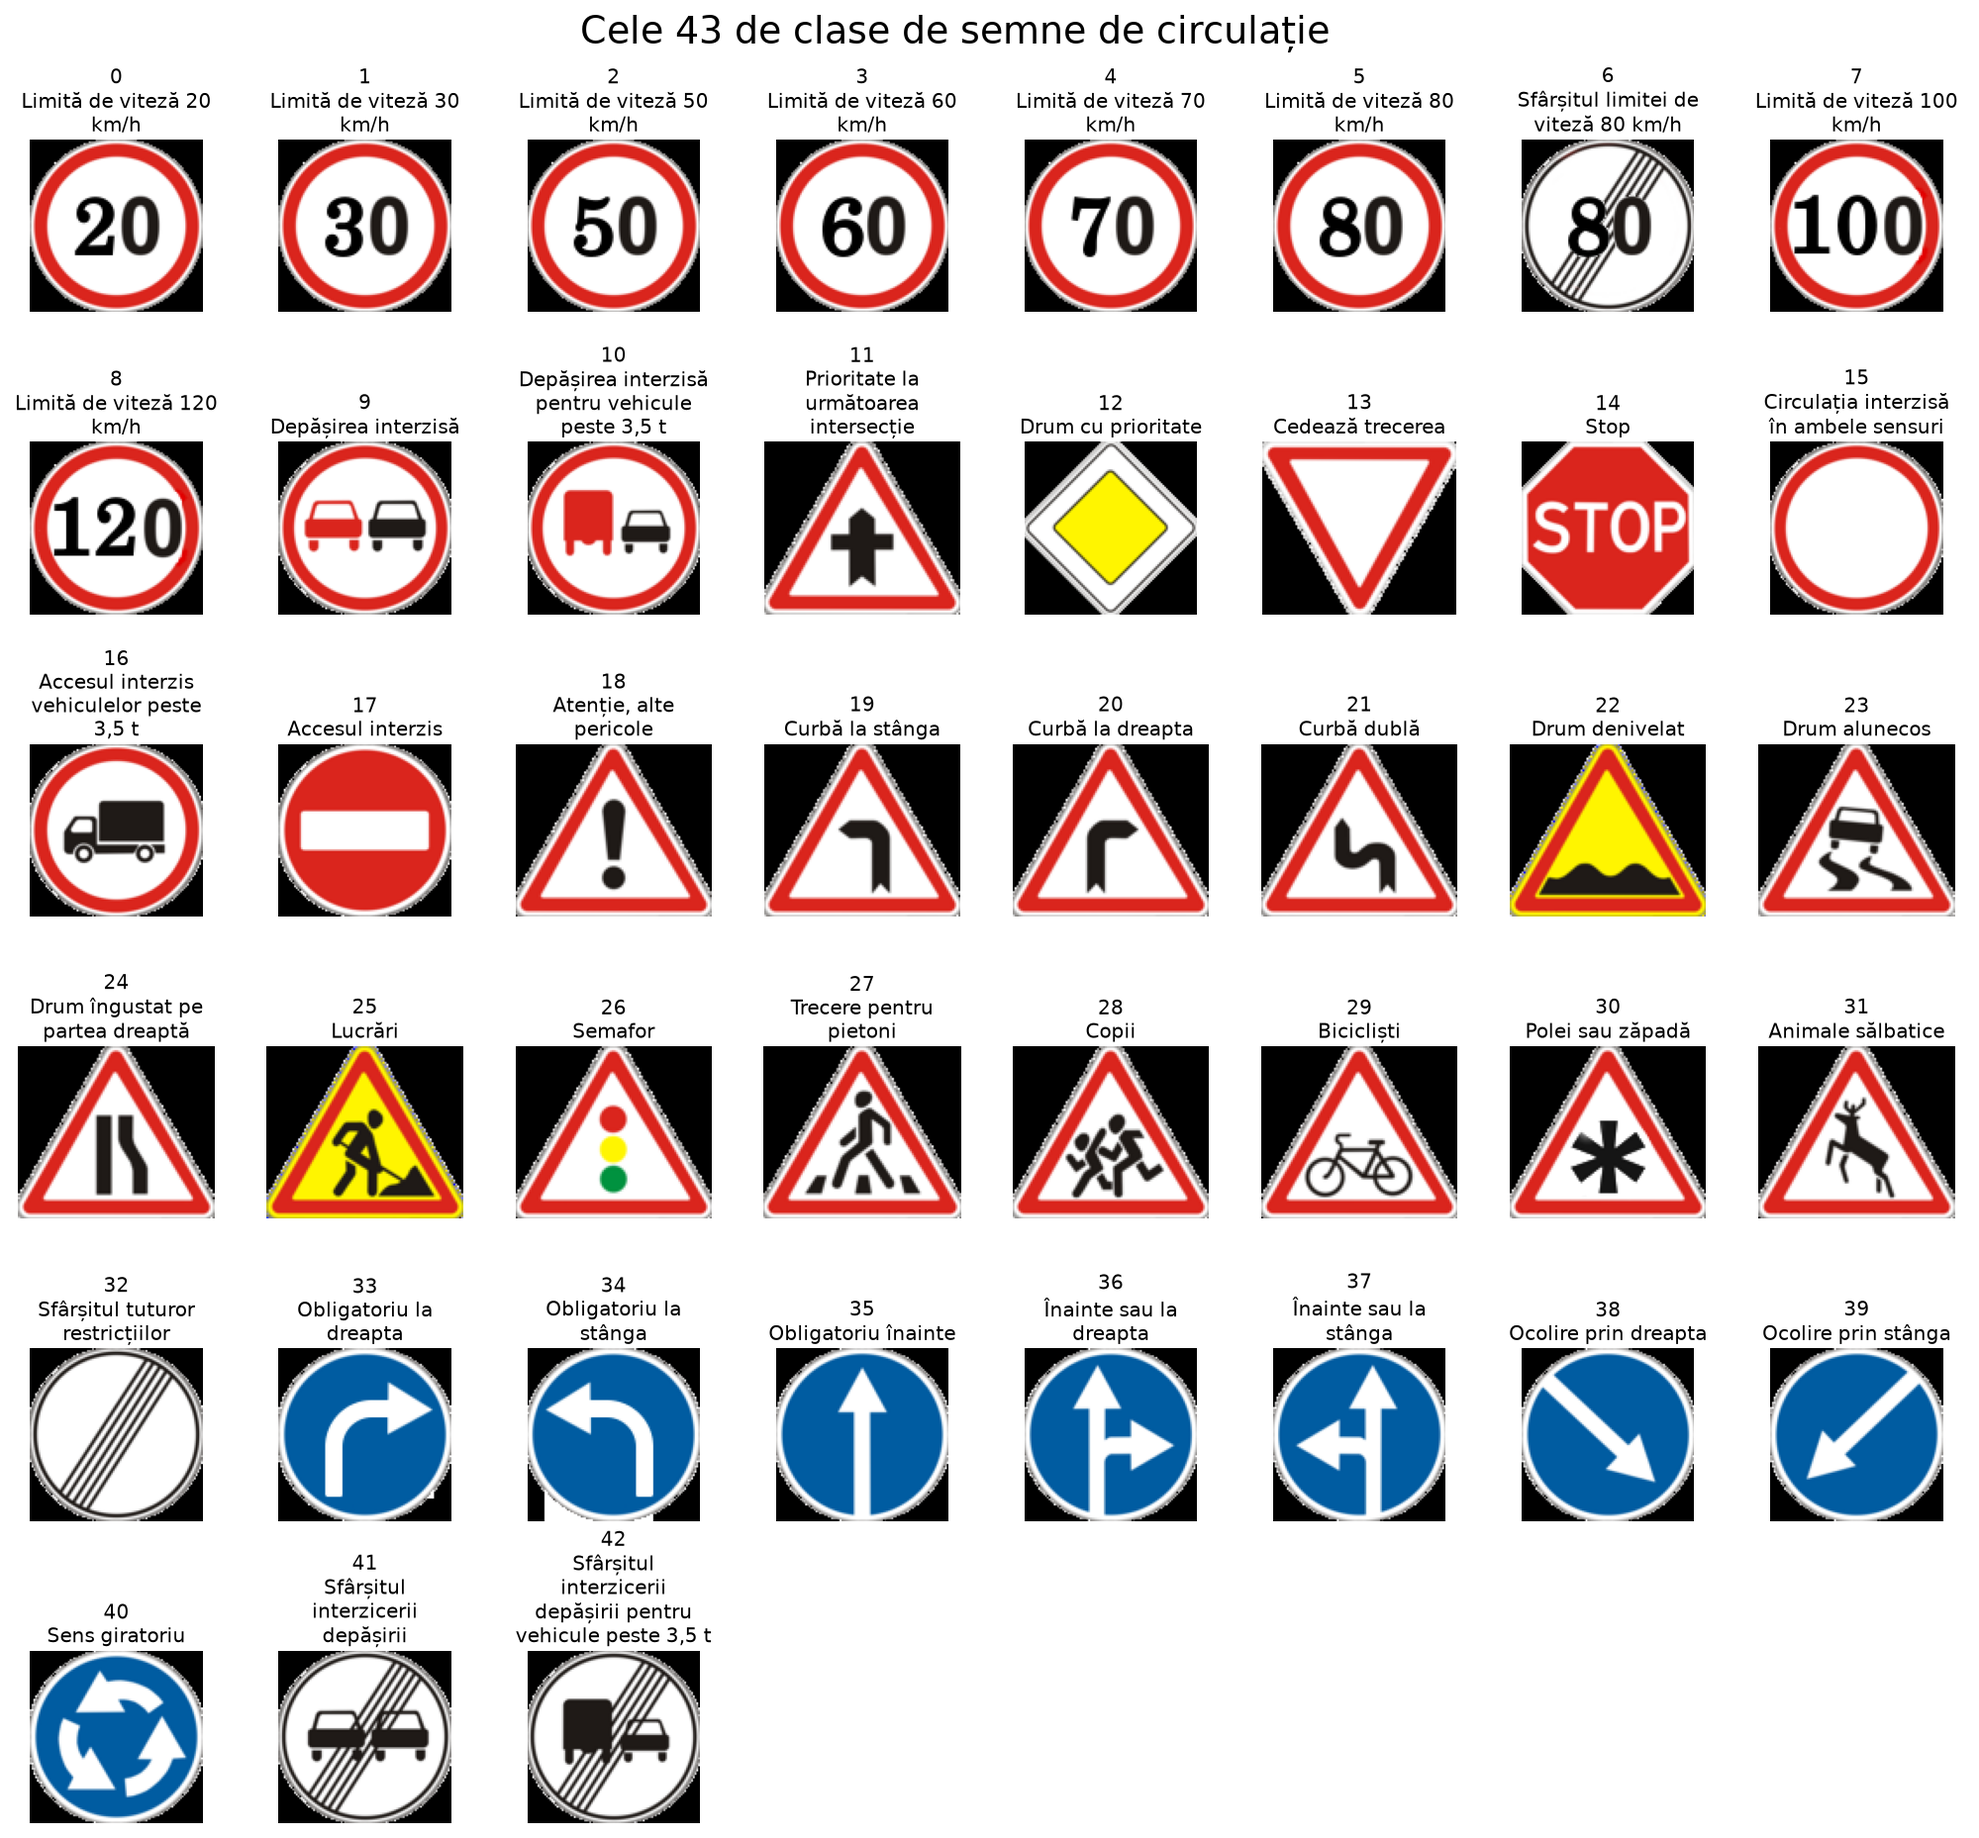
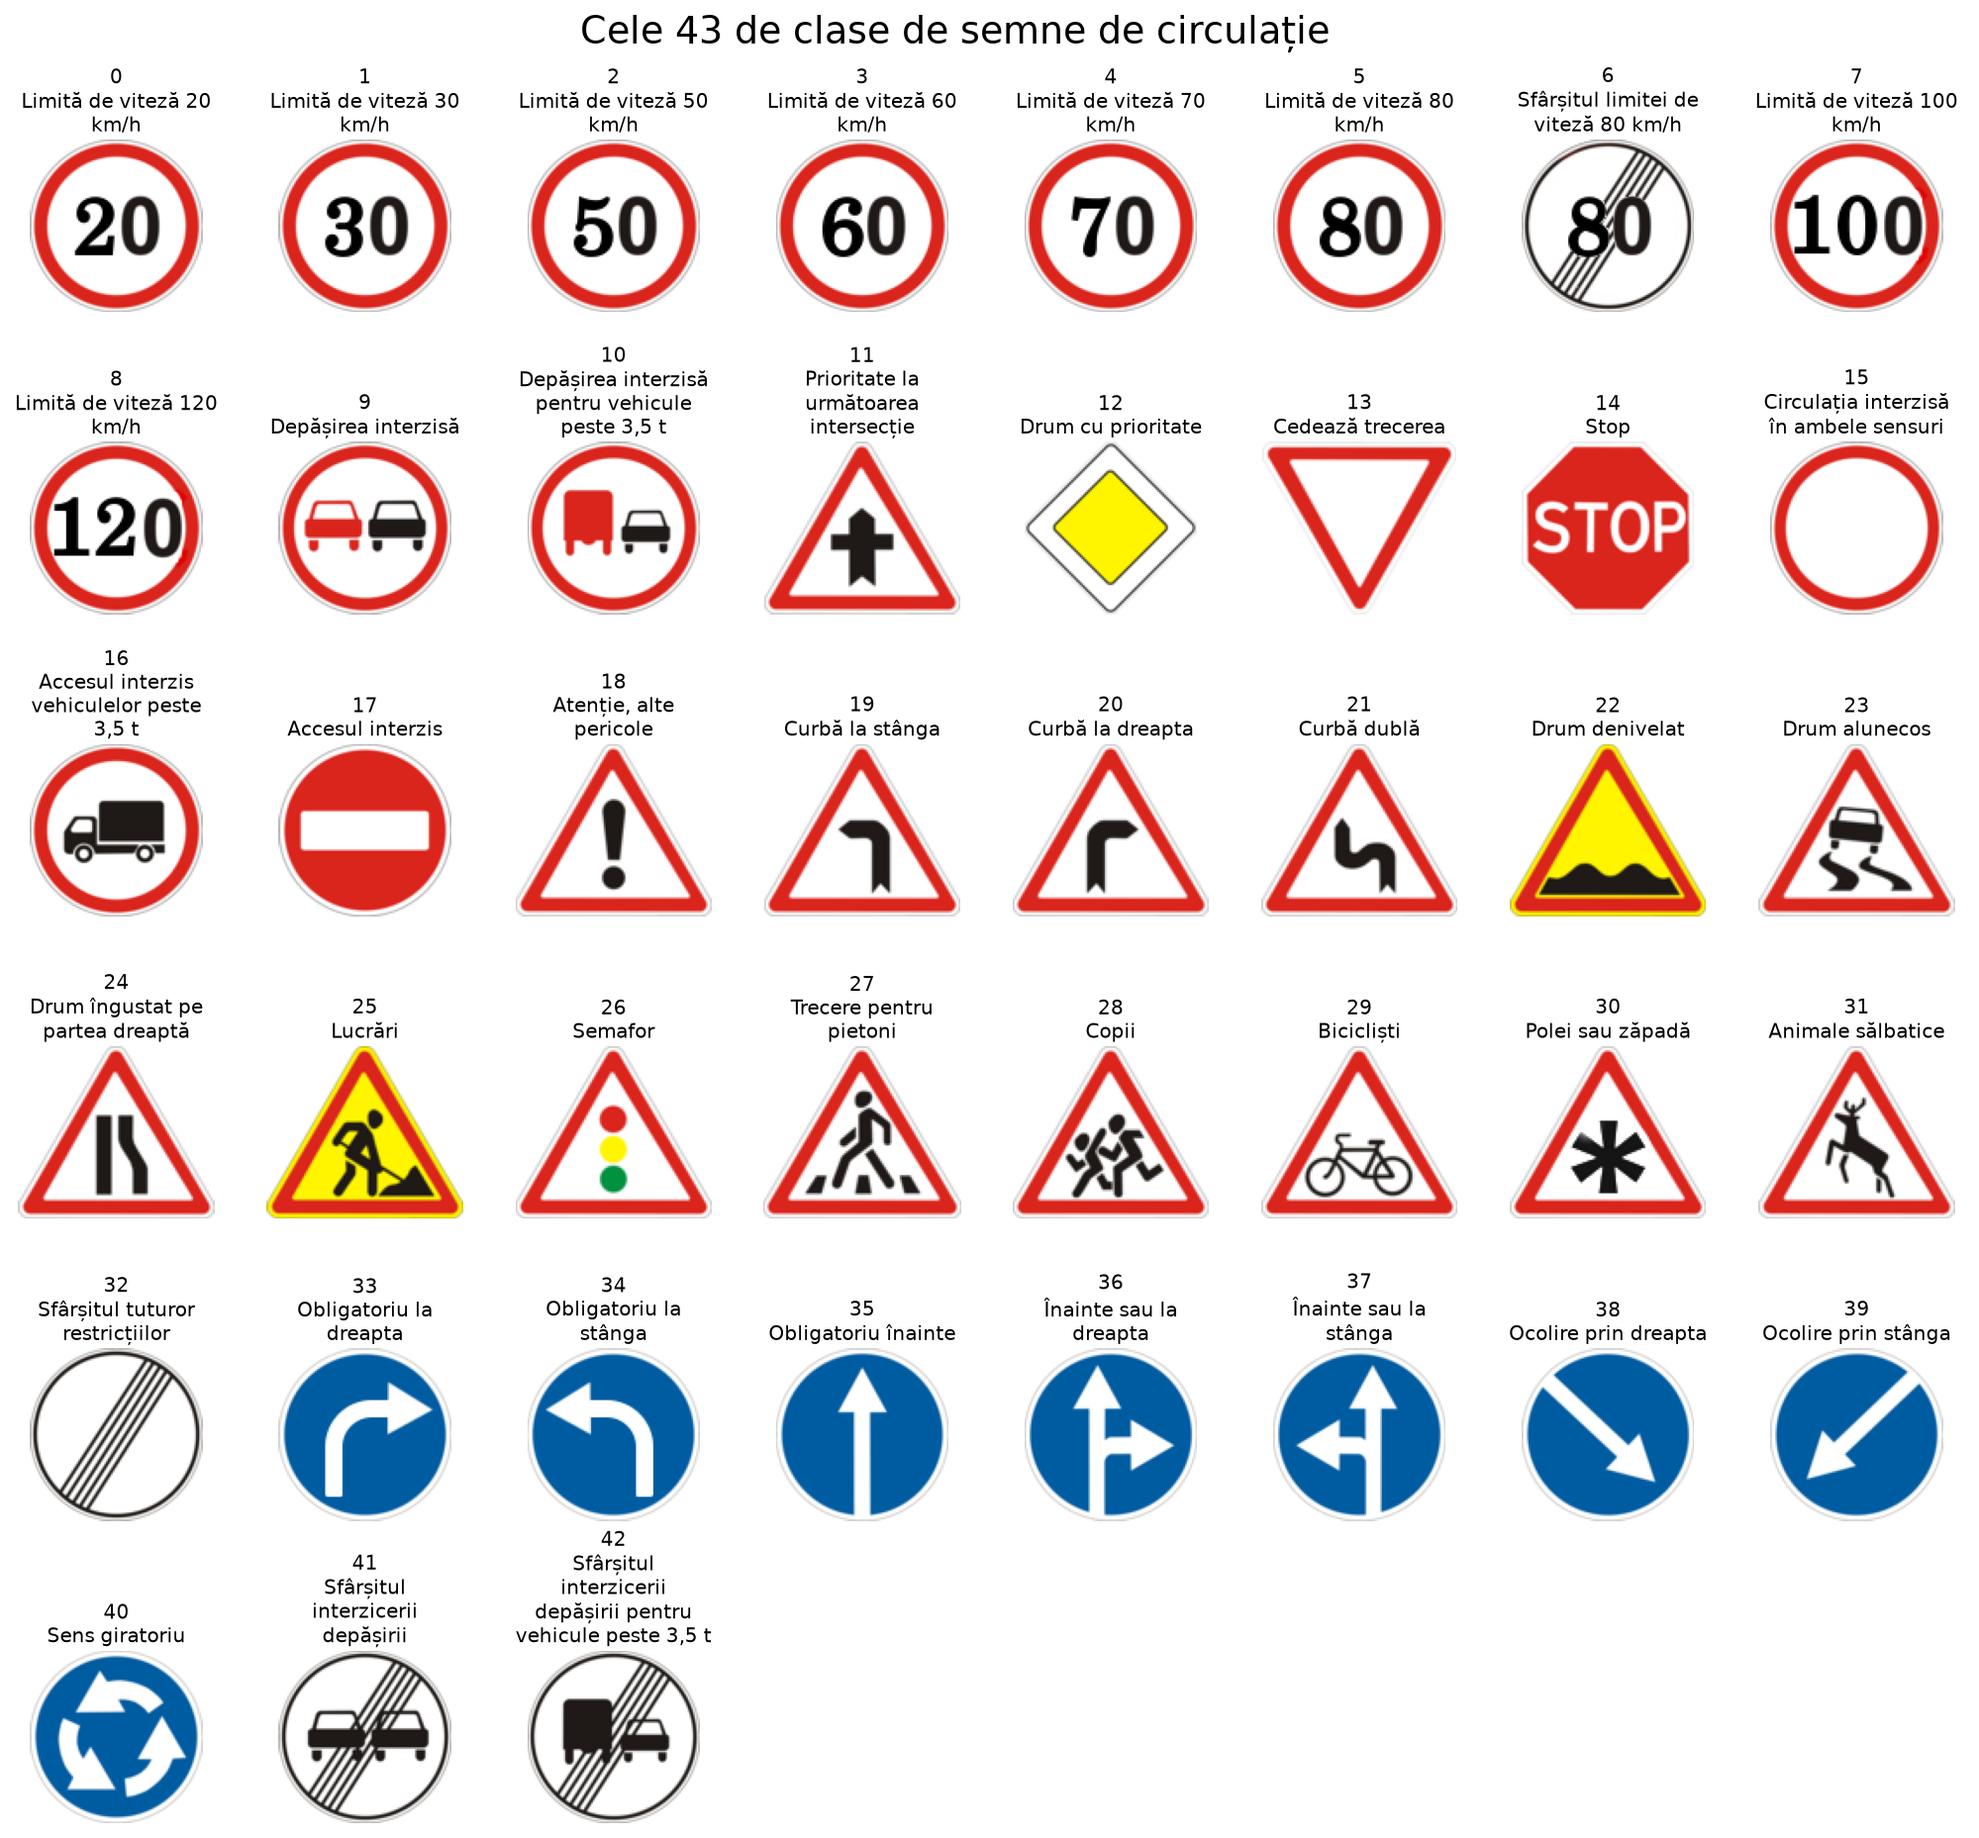
fix: final review fixes (prepare(), white class grid, seed helper, Agg backend, config defaults, empty df)

diff --git a/src/traffic_signs/pipeline.py b/src/traffic_signs/pipeline.py
@@ -5,7 +5,7 @@ import tensorflow as tf
 
 from traffic_signs.augmentation import build_augmentation
 from traffic_signs.config import BATCH_SIZE, NUM_CLASSES, SEED
-from traffic_signs.preprocessing import crop_roi, load_image, preprocess
+from traffic_signs.preprocessing import prepare
 
 
 def make_dataset(df: pd.DataFrame, image_size: int, batch_size: int = BATCH_SIZE,
@@ -15,16 +15,16 @@ def make_dataset(df: pd.DataFrame, image_size: int, batch_size: int = BATCH_SIZE
 
     def load(path, x1, y1, x2, y2):
         # Ruleaza in NumPy/Pillow; calea ajunge ca bytes
-        img = load_image(path)
-        if crop:
-            img = crop_roi(img, int(x1), int(y1), int(x2), int(y2))
-        return preprocess(img, image_size).astype(np.float32)
+        roi = (int(x1), int(y1), int(x2), int(y2)) if crop else None
+        return prepare(path, image_size, roi)
 
     def load_tf(path, x1, y1, x2, y2, label):
         img = tf.numpy_function(load, [path, x1, y1, x2, y2], tf.float32)
         img.set_shape((image_size, image_size, 3))
         return img, tf.one_hot(label, NUM_CLASSES, dtype=tf.float32)
 
+    if len(df) == 0:
+        raise ValueError("DataFrame-ul este gol")
     ds = tf.data.Dataset.from_tensor_slices((
         df["path"].astype(str).to_numpy(),
         df["roi_x1"].to_numpy(np.int32), df["roi_y1"].to_numpy(np.int32),
@@ -33,7 +33,7 @@ def make_dataset(df: pd.DataFrame, image_size: int, batch_size: int = BATCH_SIZE
     ))
     if training:
         ds = ds.shuffle(len(df), seed=seed, reshuffle_each_iteration=True)
-    ds = ds.map(load_tf, num_parallel_calls=tf.data.AUTOTUNE, deterministic=not training)
+    ds = ds.map(load_tf, num_parallel_calls=tf.data.AUTOTUNE, deterministic=True)
     ds = ds.batch(batch_size)
     if training:
         augment = build_augmentation(seed)  # o singura data pe dataset

diff --git a/src/traffic_signs/eda.py b/src/traffic_signs/eda.py
@@ -2,16 +2,13 @@
 import textwrap
 from pathlib import Path
 
-import matplotlib
+import matplotlib.pyplot as plt
+import numpy as np
+import pandas as pd
 
-matplotlib.use("Agg")
-import matplotlib.pyplot as plt  # noqa: E402
-import numpy as np  # noqa: E402
-import pandas as pd  # noqa: E402
-from PIL import Image  # noqa: E402
-
-from traffic_signs.classes import class_name  # noqa: E402
-from traffic_signs.config import NUM_CLASSES  # noqa: E402
+from traffic_signs.classes import class_name
+from traffic_signs.config import NUM_CLASSES
+from traffic_signs.preprocessing import load_image
 
 DPI = 150
 COLOR = "#2b6cb0"
@@ -73,6 +70,11 @@ def _short_name(class_id: int, width: int = 20, max_lines: int = 4) -> str:
     return "\n".join(lines)
 
 
+def _load_sign_image(path: Path) -> np.ndarray:
+    """Imagine RGB din Meta/; transparenta se compune pe alb."""
+    return load_image(path)
+
+
 def plot_class_grid(meta_dir: Path, out_path: Path) -> None:
     """Grila cu cele 43 de semne din Meta/, cu ID si nume scurt."""
     cols, rows = 8, 6
@@ -81,8 +83,7 @@ def plot_class_grid(meta_dir: Path, out_path: Path) -> None:
         ax.axis("off")
         if i >= NUM_CLASSES:
             continue
-        with Image.open(Path(meta_dir) / f"{i}.png") as im:
-            ax.imshow(np.asarray(im.convert("RGB")))
+        ax.imshow(_load_sign_image(Path(meta_dir) / f"{i}.png"))
         ax.set_title(f"{i}\n{_short_name(i)}", fontsize=9.5, pad=4)
     fig.suptitle("Cele 43 de clase de semne de circulație", fontsize=18)
     fig.subplots_adjust(hspace=0.75, wspace=0.15, top=0.92)

diff --git a/src/traffic_signs/preprocessing.py b/src/traffic_signs/preprocessing.py
@@ -1,13 +1,17 @@
 """Preprocesarea unei imagini: incarcare, decupare ROI, redimensionare, normalizare."""
 import os
 from pathlib import Path
+from typing import BinaryIO
 
 import numpy as np
 from PIL import Image
 
 
-def load_image(path: str | Path | bytes) -> np.ndarray:
-    """Incarca o imagine ca uint8 (H, W, 3) RGB; transparenta se compune pe alb."""
+def load_image(path: str | Path | bytes | BinaryIO) -> np.ndarray:
+    """Incarca o imagine ca uint8 (H, W, 3) RGB; transparenta se compune pe alb.
+
+    Accepta cale (str/Path), cale ca bytes (nu continut) sau obiect file-like.
+    """
     if isinstance(path, bytes):  # tf.numpy_function trimite caile ca bytes
         path = os.fsdecode(path)
     with Image.open(path) as im:
@@ -33,3 +37,12 @@ def preprocess(img: np.ndarray, size: int) -> np.ndarray:
     """Resize biliniar la (size, size) si normalizare in [0, 1] (float32)."""
     resized = Image.fromarray(img).resize((size, size), Image.BILINEAR)
     return np.asarray(resized, dtype=np.float32) / 255.0
+
+
+def prepare(source: str | Path | bytes | BinaryIO, size: int,
+            roi: tuple[int, int, int, int] | None = None) -> np.ndarray:
+    """Incarcare -> decupare ROI (optional) -> resize + normalizare; float32 (size, size, 3)."""
+    img = load_image(source)
+    if roi is not None:
+        img = crop_roi(img, *roi)
+    return preprocess(img, size).astype(np.float32)

diff --git a/tests/test_preprocessing.py b/tests/test_preprocessing.py
@@ -65,3 +65,25 @@ def test_preprocess_shape_range(size):
     assert out.shape == (size, size, 3)
     assert out.dtype == np.float32
     assert out.min() >= 0.0 and out.max() <= 1.0
+
+
+def test_load_image_accepts_file_like(fake_gtsrb):
+    import io
+    path = next((fake_gtsrb / "Train" / "0").glob("*.png"))
+    img = load_image(io.BytesIO(path.read_bytes()))
+    assert img.shape == (32, 30, 3)
+    assert np.array_equal(img, load_image(path))
+
+
+def test_prepare_matches_pipeline(fake_gtsrb):
+    from traffic_signs.dataset import load_train_index
+    from traffic_signs.pipeline import make_dataset
+    from traffic_signs.preprocessing import prepare
+    df = load_train_index(fake_gtsrb)
+    row = df.iloc[0]
+    roi = (int(row.roi_x1), int(row.roi_y1), int(row.roi_x2), int(row.roi_y2))
+    out = prepare(row.path, 48, roi)
+    assert out.shape == (48, 48, 3) and out.dtype == np.float32
+    img, _ = next(iter(make_dataset(df, 48, batch_size=1, training=False)))
+    assert np.allclose(out, img[0].numpy())
+    assert prepare(row.path, 48).shape == (48, 48, 3)

diff --git a/scripts/run_eda.py b/scripts/run_eda.py
@@ -1,10 +1,14 @@
 """Genereaza figurile EDA in reports/figures/ si tipareste statistici."""
-from traffic_signs import config
-from traffic_signs.dataset import load_test_index, load_train_index
-from traffic_signs.eda import (class_distribution, plot_class_distribution,
-                               plot_class_grid, plot_size_histogram,
-                               plot_split_distribution)
-from traffic_signs.split import load_split
+import matplotlib
+
+matplotlib.use("Agg")  # backend fara ecran pentru script
+
+from traffic_signs import config  # noqa: E402
+from traffic_signs.dataset import load_test_index, load_train_index  # noqa: E402
+from traffic_signs.eda import (  # noqa: E402
+    class_distribution, plot_class_distribution, plot_class_grid,
+    plot_size_histogram, plot_split_distribution)
+from traffic_signs.split import load_split  # noqa: E402
 
 
 def main() -> None:

diff --git a/src/traffic_signs/split.py b/src/traffic_signs/split.py
@@ -5,9 +5,11 @@ from pathlib import Path
 import numpy as np
 import pandas as pd
 
+from traffic_signs.config import SEED, VAL_FRACTION
 
-def split_by_track(df: pd.DataFrame, val_fraction: float = 0.15,
-                   seed: int = 42) -> tuple[pd.DataFrame, pd.DataFrame]:
+
+def split_by_track(df: pd.DataFrame, val_fraction: float = VAL_FRACTION,
+                   seed: int = SEED) -> tuple[pd.DataFrame, pd.DataFrame]:
     """Imparte pe track-uri: niciun track nu apare si in train, si in val."""
     if df["track_id"].isna().any():
         raise ValueError("Exista randuri fara track_id; impartirea pe track-uri nu e posibila")

diff --git a/src/traffic_signs/augmentation.py b/src/traffic_signs/augmentation.py
@@ -23,7 +23,7 @@ def build_augmentation(seed: int = SEED) -> keras.Sequential:
             keras.layers.RandomZoom(0.1, fill_mode="nearest", seed=seed + 1),
             keras.layers.RandomTranslation(0.1, 0.1, fill_mode="nearest", seed=seed + 2),
             keras.layers.RandomBrightness(0.2, value_range=(0, 1), seed=seed + 3),
-            keras.layers.RandomContrast(0.2, seed=seed + 4),
+            keras.layers.RandomContrast(0.2, value_range=(0, 1), seed=seed + 4),
             ClipToUnitRange(),
         ],
         name="augmentation",

diff --git a/tests/test_eda.py b/tests/test_eda.py
@@ -41,3 +41,10 @@ def test_plots_write_png(fake_gtsrb, tmp_path):
     assert calls == [None] * 4
     for name in "abcd":
         assert (out / f"{name}.png").stat().st_size > 0
+
+
+def test_class_grid_image_transparent_pixel_is_white(tmp_path):
+    from traffic_signs.eda import _load_sign_image
+    path = tmp_path / "t.png"
+    Image.new("RGBA", (4, 4), (0, 0, 0, 0)).save(path)
+    assert (_load_sign_image(path) == 255).all()

diff --git a/tests/test_environment.py b/tests/test_environment.py
@@ -2,11 +2,15 @@ def test_tensorflow_imports_and_computes():
     import tensorflow as tf
     assert int(tf.reduce_sum(tf.constant([1, 2, 3]))) == 6
 
+
+
 def test_config_constants():
     from traffic_signs import config
     assert config.NUM_CLASSES == 43
     assert config.SEED == 42
     assert config.DATA_DIR.name == "archive"
+
+
 
 def test_fake_gtsrb_fixture(fake_gtsrb):
     assert (fake_gtsrb / "Train.csv").exists()

diff --git a/tests/conftest.py b/tests/conftest.py
@@ -3,10 +3,13 @@ import os
 # Reduce zgomotul din logurile C++ ale TensorFlow
 os.environ.setdefault("TF_CPP_MIN_LOG_LEVEL", "2")
 
+import matplotlib
 import numpy as np
 import pandas as pd
 import pytest
 from PIL import Image
+
+matplotlib.use("Agg")  # backend fara ecran in teste
 
 COLUMNS = ["Width", "Height", "Roi.X1", "Roi.Y1", "Roi.X2", "Roi.Y2", "ClassId", "Path"]
 WIDTH, HEIGHT = 30, 32

diff --git a/tests/test_pipeline.py b/tests/test_pipeline.py
@@ -49,3 +49,8 @@ def test_crop_flag(df):
     a = next(iter(make_dataset(one, 48, batch_size=1, crop=True)))[0].numpy()
     b = next(iter(make_dataset(one, 48, batch_size=1, crop=False)))[0].numpy()
     assert not np.array_equal(a, b)
+
+
+def test_empty_dataframe_raises(df):
+    with pytest.raises(ValueError, match="gol"):
+        make_dataset(df.iloc[0:0], image_size=48)

diff --git a/src/traffic_signs/reproducibility.py b/src/traffic_signs/reproducibility.py
@@ -1,0 +1,9 @@
+"""Reproductibilitate: seed global pentru Python, NumPy si backend-ul Keras."""
+from tensorflow import keras
+
+from traffic_signs.config import SEED
+
+
+def set_global_seed(seed: int = SEED) -> None:
+    """Fixeaza seed-urile random, NumPy si Keras/TensorFlow."""
+    keras.utils.set_random_seed(seed)
